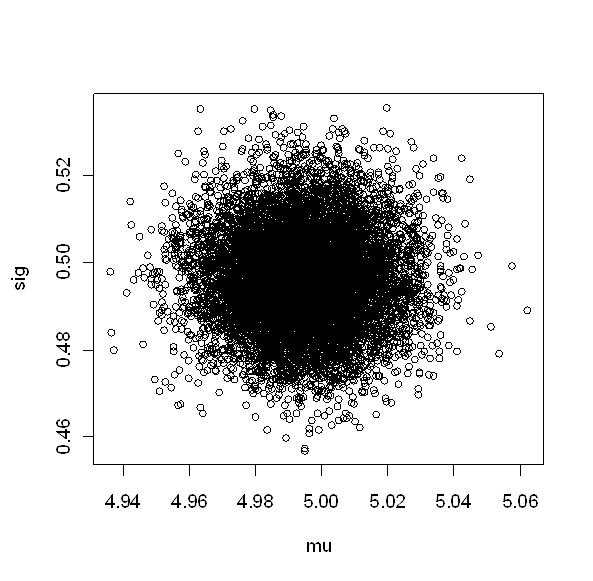
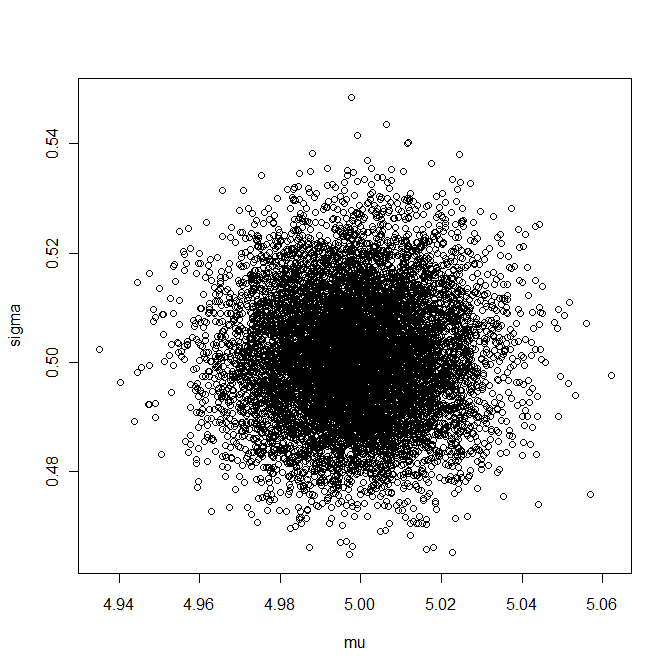
More edits Ch7

diff --git a/Ch7/Ch7.tex b/Ch7/Ch7.tex
@@ -19,7 +19,7 @@ starting with easy-to-code GLMs and GLMMs and moving on to simple CR and SCR
 models. Finally, we will illustrate some alternative
 ready-to-use software packages for MCMC sampling. We will NOT provide
 exhaustive background information on the theory and justification of
-MCMC sampling – there are entire books dedicated to that subject and
+MCMC sampling -- there are entire books dedicated to that subject and
 we refer you to \citet{robert_casella:2004} and
 \citet{robert_casella:2010}. Rather we aim to provide you with enough
 background and technical know-how to start building your own MCMC
@@ -54,7 +54,7 @@ activity centers to any arbitrary polygon in {\bf R} using an ESRI shapefile
 (and we will show you an example in a little bit), but you cannot use
 a shape file in a {\bf BUGS} model.  Similarly, models of space usage
 that take into account ecological distance
-(Chapt. \ref{chapt.ecoldist} cannot be implemented in the {\bf BUGS}
+(Chapt. \ref{chapt.ecoldist}) cannot be implemented in the {\bf BUGS}
 engines.  Moreover, there are classes of 
 SCR models that we have not been able to implement effectively using
 likelihood methods, and are inefficient to run in the {\bf BUGS}
@@ -67,7 +67,7 @@ have hundreds or more simulated data sets, several years' worth of
 data or other large models, this can be a big advantage.
 
 Finally, building your own MCMC algorithm is a great exercise to
-understand how MCMC sampling works. So while using the {\bf BUGS} language requires you to understand the structure of your model, building an MCMC algorithm requires you to think about the relationship between your data, priors and posteriors, and how these can be efficiently analyzed and characterized. Not to mention that, if you are an R junkie, it can actually be fun.
+understand how MCMC sampling works. So while using the {\bf BUGS} language requires you to understand the structure of your model, building an MCMC algorithm requires you to think about the relationship between your data, priors and posteriors, and how these can be efficiently analyzed and characterized. Not to mention that, if you are an {\bf R} junkie, it can actually be fun.
 However, if you don't think you will ever sit down and write your own
 MCMC sampler, consider skipping this chapter - apart from coding it
 will not cover anything SCR-related that is not covered by other, more
@@ -93,7 +93,7 @@ analysis. Unfortunately, in many if not most practical applications,
 it is nearly impossible to directly compute the posterior. Recall
 Bayes’ theorem:
 \begin{equation}
-[\theta|y] = \frac{[y|\theta] * [\theta]}  {[y]},
+[\theta|y] = \frac{[y|\theta] [\theta]}  {[y]},
 \label{mcmc.eq.bayes}
 \end{equation}
 where $\theta$ is the parameter of interest, $y$ is the observed data,
@@ -102,7 +102,7 @@ data conditional on $\theta$, $[\theta]$ the prior probability of
 $\theta$, and, finally, $[y]$ is the marginal probability of the
 data, defined as 
 \[
-[y] = \int [y|\theta] * [\theta] d\theta
+[y] = \int [y|\theta]  [\theta] d\theta
 \]
 
 This marginal probability is a normalizing constant that ensures that
@@ -127,18 +127,18 @@ distribution:
 \mu \sim \mbox{Normal}(\mu_0, \sigma_{0}^{2})
 \]
 If $\mu_{0}$ and $\sigma_{0}^{2}$ are fixed, the posterior for $\mu$
-has the following form (for the algebraic proof, see XXX RED BOOK? XXXX):
+has the following form (for some of the algebra behind this, see Chapt. 2 in \citep{gelman_etal:2004}):
 \begin{equation}
 \mu|y \sim \mbox{Normal}(\mu_{n}, \sigma_{n}^{2})
 \label{mcmc.eq.mu-posterior}
 \end{equation}
 where
 \[
-\mu_{n} = \frac{ \sigma^{2}}  {\sigma^{2}   +n* \sigma_{0}^{2}}*  \mu_0 +      \frac{n * \sigma_{0}^{2}}  {\sigma^{2}   +n* \sigma_{0}^{2}} *\bar{y}
+\mu_{n} = \frac{ \sigma^{2}}  {\sigma^{2}   +n \sigma_{0}^{2}}*  \mu_0 +      \frac{n  \sigma_{0}^{2}}  {\sigma^{2}   +n \sigma_{0}^{2}} *\bar{y}
 \]
 And
 \[
- \sigma_{n}^{2} = \frac{\sigma^{2}  * \sigma_{0}^{2}} {\sigma^{2} + n*\sigma_{0}^{2}}
+ \sigma_{n}^{2} = \frac{\sigma^{2}  \sigma_{0}^{2}} {\sigma^{2} + n \sigma_{0}^{2}}
 \]
 We can directly obtain estimates of interest from this Normal
 posterior distribution, such as the mean $\hat{\mu}$ and its variance; we
@@ -197,7 +197,7 @@ distribution \footnote{a distribution from physics we are not going to
   worry about, since it has no immediate connection with Gibbs
   sampling other than giving its name}. The roots of Gibbs sampling
 can be traced back to work of \citet{metropolis_ulam:1953}, and it is
-actually closely related to Metropolis sampling (see Chapter 11.5 in
+actually closely related to Metropolis sampling (see Chapt. 11.5 in
 \citet{gelman_etal:2004}, for the link between the two samplers). We
 will focus on the technical aspects of this algorithm, but if you find
 yourself hungry for more background, \citet{casella_george:1992}
@@ -217,7 +217,8 @@ With fixed $a$ and $b$, the posterior $[\sigma|\mu,y]$ is also an Inverse Gamma 
 \sigma|\mu,y \sim InvGamma (a_n, b_n),
 \label{eq. 3}
 \end{equation}
- where  $a_n = n/2   + a$ and $b_n = (1/2) \sum (y-\mu)^2 + b$.
+XXXXX Andy, when do we use square brackets around $\theta|y$ and when don't we? On a similar note, when do we use the asterisk for multiplication? Any rules? XXXXXXX
+ where  $a_n = n/2   + a$ and $b_n = (1/2) \displaystyle\sum\limits_{i=1}^{n} (y_i-\mu)^2 + b$.
 However, what if we know neither $\mu$ nor $\sigma$, which is probably the
 more common case? The joint posterior distribution of $\mu$ and $\sigma$
 now has the general structure
@@ -257,7 +258,7 @@ steps you need to build a Gibbs sampler:
 
 {\flushleft {\bf Step 0:} Begin with some initial values for $\theta$, $\theta^{(0)}$.}
 In our example, we have to specify initial values for $\mu$ and $\sigma$, for
-example by drawing a random number from some uniform distribution, or
+example by drawing a random number from some Uniform distribution, or
 by setting them close to what we think they might be. (Note: This step
 is required in any MCMC sampling; chains have to start from
 somewhere. We will get back to these technical details a little
@@ -269,10 +270,9 @@ Here, $\theta_2$ is $\sigma$, which we draw from the Inverse Gamma
 distribution of Eq. \ref{eq. 3}, using $\mu^{(1)}$ as value for $\mu$.
 
 {\flushleft {\bf Step 3:} Draw $\theta_{d}^{(1)}$ from the conditional distribution $[\theta_{d}^{(1)}|\theta_{1}^{(1)}$,\ldots, $\theta_{d-1}^{(1)}]$. }
-
 In our example we have no additional parameters, so we only need step 0 through to 2.
 
-Repeat Steps 1 to d for $T$ = a large number of samples.
+{\flushleft Repeat Steps 1 to $d$ for $T$ = a large number of samples.}
 
 In terms of {\bf R} coding, this means we have to write Gibbs updaters for
 $\mu$ and $\sigma$ and embed them into a loop over $T$ iterations. The final
@@ -285,28 +285,28 @@ in Panel \ref{mcmc.panel.gibbs1}.
 \rule[0.15in]{\textwidth}{.03in}
 %\begin{minipage}{2.5in}
 \begin{verbatim}
-Normal.Gibbs<-function(y=y,mu0=mu0, sig0=sig0, a=a,b=b,niter=niter) {
+Norm.Gibbs<-function(y=y,mu_0=mu_0,sigma2_0=sigma2_0,a=a,b=b,niter=niter){
 
 ybar<-mean(y)
 n<-length(y)
-mu<-runif(1) #mean initial value
-sig<-runif(1) #sd initial value
-an<-n/2 + a
+mu<-1            #mean initial value
+sigma2<-1        #sigma2 initial value
+an<-n/2 + a      #shape parameter of IvGamma distribution of sigma2
 
 out<-matrix(nrow=niter, ncol=2)
 colnames(out)<-c('mu', 'sig')
 
 for (i in 1:niter) {
 
-#update mu
-mun<- (sig/(sig+n*sig0))*mu0 + (n*sig0/(sig+n* sig0))*ybar
-sign <- (sig*sig0)/ (sig+n*sig0)
-mu<-rnorm(1,mun, sqrt(sign))
+#update mu according to Eq. 7.2
+mu_n<- (sigma2/(sigma2+n*sigma2_0))*mu_0 + (n*sigma2_0/(sigma2 + n*sigma2_0))*ybar 
+sigma2_n <- (sigma2*sigma2_0)/ (sigma2 + n*sigma2_0)
+mu<-rnorm(1,mu_n, sqrt(sigma2_n))
 
-#update sig
-bn<- 0.5 * (sum((y-mu)^2)) +b
-sig<-1/rgamma(1,shape=an, rate=bn)
-out[i,]<-c(mu,sqrt(sig))
+#update sigma2 according to Eq. 7.3
+bn<- 0.5 * (sum((y-mu)^2)) + b
+sigma2<-1/rgamma(1,shape=an, rate=bn)
+out[i,]<-c(mu,sqrt(sigma2))
 
 }
 return(out)
@@ -316,18 +316,34 @@ return(out)
 \rule[-0.15in]{\textwidth}{.03in}
 \caption{
 R-code for a Gibbs sampler for a Normal model with unknown $\mu$
-and $\sigma$ and conjugate (Normal and Inverse Gamma, respectively) priors
+and $\sigma$ and conjugate priors (Normal and Inverse Gamma, respectively) 
 for both parameters.
 }
 \label{mcmc.panel.gibbs1}
 \end{panel}
 
-
-
-This is it! You can use the code \mbox{\tt NormalGibbs.R} in the {\bf
+This is it! You can go ahead and simulate some data, $y \sim \mbox{Normal}(5, 0.5)$ and then use the code \mbox{\tt NormGibbs.R} in the {\bf
   R} package \mbox{\tt scrbook}
-to simulate some data, $y \sim \mbox{Normal}(5, 0.5)$ and run your first
-Gibbs sampler. Your output will be a table with two columns, one per
+to and run your first
+Gibbs sampler. 
+
+\begin{verbatim}
+set.seed(13)
+
+#true mean and sd are 5 and 0.5
+y<-rnorm(1000, 5,0.5) #data
+
+mu_0<-0 #prior mean
+sigma2_0<-100 #prior variance 
+
+#InvGamma hyperparameters
+a<-0.1
+b<-0.1 
+
+mod=Norm.Gibbs(y, mu_0, sigma2_0, a,b,niter=10000)
+\end{verbatim}
+
+Your output, \verb#mod#, will be a table with two columns, one per
 parameter, and $T$ rows, one per iteration. For this 2-parameter example
 you can visualize the joint posterior by plotting samples of $\mu$
 against samples of $\sigma$ (Fig. \ref{postdist.fig}):
@@ -342,12 +358,6 @@ par(mfrow=c(1,2))
 hist(out[,1]); hist (out[,2])
 \end{verbatim}
 
-\begin{comment}
-Rahel: for some analyses you might want to use a specified random
-number seed so that the reader can obtain exactly these results (or
-that Figures look exactly the same if they are reanalyzed for
-revisions. 
-\end{comment}
 Finally, recall an important characteristic of Markov chains, namely,
 that the chain has to have converged (reached its stationary
 distribution) in order to regard samples as coming from the posterior distribution. In
@@ -1197,7 +1207,7 @@ $\psi$
  is a hyperparameter of the model, with an uninformative prior 
  distribution of $\mbox{Unif}(0,1)$ or $\mbox{Beta}(1,1)$, so that
 \[
-\[psi|{\bf z}] \propto \left\{ \prod_{i} [z_{i}|\psi] \right\} \mbox{Beta}(1,1)
+[psi|{\bf z}] \propto \left\{ \prod_{i} [z_{i}|\psi] \right\} \mbox{Beta}(1,1)
 \]
 The beta distribution is the conjugate prior to the binomial and 
 Bernoulli distributions (remember that $z \sim \mbox{Bern}(\psi))$. 
